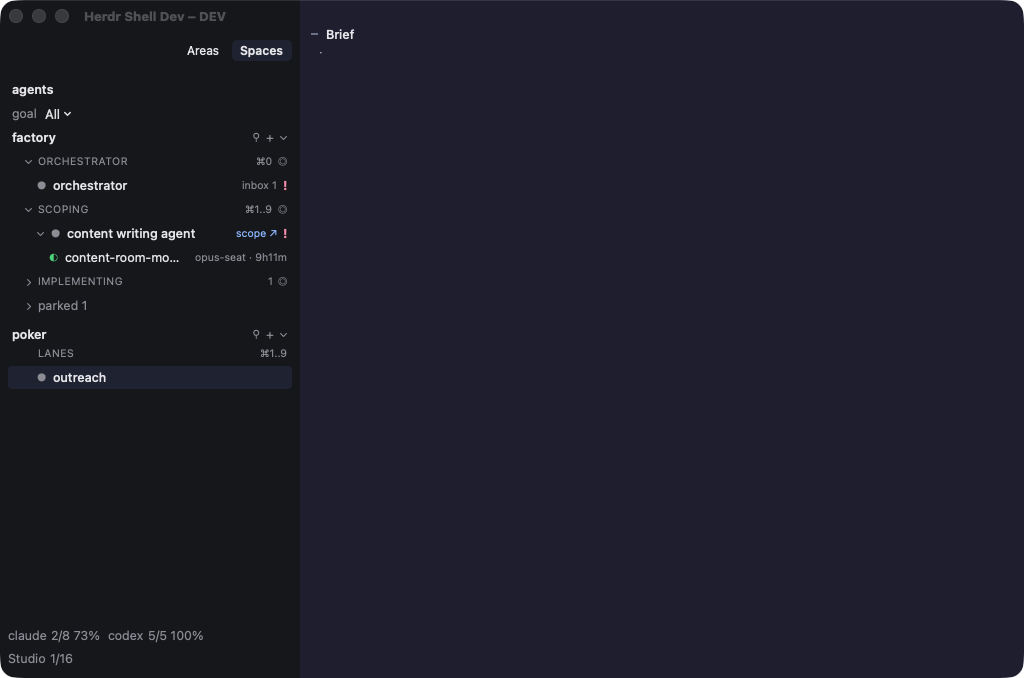
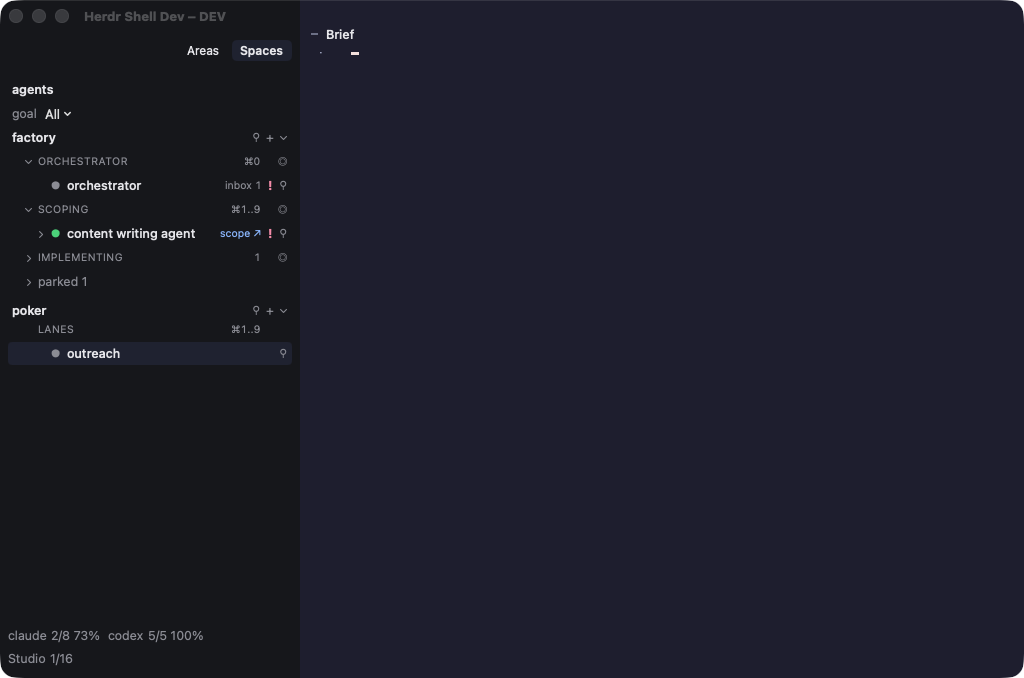
fix(shell): cmd-w closes the docs column, and docs open only on request
Cmd-W follows focus: when the docs column (RESUME, BRIEF, a page) has
keyboard focus or took the last click, it does what the column's close
button does and the pane keeps its tab. Docs visibility is now per tab and
off until Toggle Docs (cmd-\) opens it; Areas row clicks, cmd-1..9 and
Focus stepping no longer open it. The old window-wide docOpen key is no
longer read, so installs that had it on start closed.

Alex, 2026-10-06: "i pressed cmd w on the resume and brief, and it closed
this tab instead of that. by default, resume and brief never need to be
opened in my view."

Check: HERDR_SHELL_SPACE=1 python3 scripts/check_doc_close.py (fails on
the previous build: column open at start, cmd-w removes the pane).

diff --git a/macos/HerdrShell/Sources/HerdrShell/MainWindow.swift b/macos/HerdrShell/Sources/HerdrShell/MainWindow.swift
@@ -214,6 +214,7 @@ final class MainWindowController: NSObject, NSWindowDelegate {
         docPanel.onClose = { [weak self] in self?.setDocs(open: false) }
         docPanel.onWidth = { [weak self] w in self?.setDocs(width: w) }
         root.docs = docPanel.view
+        syncDocsShown()
         applyDocs()
         root.sidebarVisible = state.sidebarVisible
         Keymap.shared.addContextual(chord: "escape", action: "close_detail") { [weak self] in
@@ -419,9 +420,12 @@ final class MainWindowController: NSObject, NSWindowDelegate {
     }
 
     var forcedEmptyDocs = false
+    /// The last click landed in the docs column. ⌘W then closes the column even after a
+    /// doc tab click handed keyboard focus back to the pane.
+    var docsLastClicked = false
 
     func selectTab(_ tabId: String, revealDocs: Bool = false) {
-        if state.selectedTab != tabId { forcedEmptyDocs = false }
+        if state.selectedTab != tabId { forcedEmptyDocs = false; docsLastClicked = false }
         quickSwitch.noteSelected(tabId)
         noteLookedAt(tabId)
         let stepping = state.focusCursor != nil && revealDocs
@@ -429,7 +433,6 @@ final class MainWindowController: NSObject, NSWindowDelegate {
         if !stepping { state.focusCursor = nil }
         state.saveSelected()
         if revealDocs, state.mode == .areas {
-            setDocs(open: true)
             focusHerdr(tabId)
         }
         lastLayoutKey = ""
@@ -440,10 +443,28 @@ final class MainWindowController: NSObject, NSWindowDelegate {
 
     private func refreshDocs() {
         docPanel.show(model: model, tabId: state.selectedTab)
+        syncDocsShown()
         applyDocs()
     }
 
-    /// Areas-mode row click, ⌘1..9 and Focus next/prev: select the tab and open its docs.
+    /// Docs are shown per tab and only once asked for (⌘\ or Toggle Docs). The key is new:
+    /// the old window-wide `docOpen` kept RESUME and BRIEF open on every lane.
+    private static func docsShownKey(_ tab: String) -> String { "herdr.shell.docsShown.\(tab)" }
+
+    private func syncDocsShown() {
+        state.docOpen = state.selectedTab.map { SidebarState.store.bool(forKey: Self.docsShownKey($0)) } ?? false
+    }
+
+    /// ⌘W follows focus: with the docs column focused or last clicked it closes what ✕
+    /// closes, never the pane.
+    var docsOwnClose: Bool { root.docsOpen && (docPanel.hasFocus || docsLastClicked) }
+
+    func closeDocs() {
+        docsLastClicked = false
+        docPanel.closeActive()
+    }
+
+    /// Areas-mode row click, ⌘1..9 and Focus next/prev: select the tab. Docs stay as that tab left them.
     func selectAreaTab(_ tabId: String) {
         selectTab(tabId, revealDocs: true)
     }
@@ -466,7 +487,11 @@ final class MainWindowController: NSObject, NSWindowDelegate {
     }
 
     func setDocs(open: Bool? = nil, width: CGFloat? = nil) {
-        if let open { state.docOpen = open }
+        if let open {
+            state.docOpen = open
+            if let tab = state.selectedTab { SidebarState.store.set(open, forKey: Self.docsShownKey(tab)) }
+            if !open { docsLastClicked = false }
+        }
         if let width { state.docWidth = max(DocPanelController.minWidth, width) }
         state.saveDocs()
         applyDocs()
@@ -925,6 +950,9 @@ final class ShellWindow: NSWindow {
         // Swallow them here so a focused pane never sees switcher typing.
         if event.type == .keyDown, let c = delegate as? MainWindowController, c.quickSwitch.sink(event) {
             return
+        }
+        if event.type == .leftMouseDown, let c = delegate as? MainWindowController, let docs = c.root.docs {
+            c.docsLastClicked = c.root.docsOpen && docs.bounds.contains(docs.convert(event.locationInWindow, from: nil))
         }
         super.sendEvent(event)
     }

diff --git a/macos/HerdrShell/Sources/HerdrShell/Keymap.swift b/macos/HerdrShell/Sources/HerdrShell/Keymap.swift
@@ -201,7 +201,7 @@ extension MainWindowController {
         case "new_tab": newTab(nil)
         case "split_right": splitRight(nil)
         case "split_down": splitDown(nil)
-        case "close_pane": closePane()
+        case "close_pane": if docsOwnClose { closeDocs() } else { closePane() }
         case "zoom_pane": zoomPane()
         case "next_attention": nextAttention()
         case "attention_jump": attentionJump()

diff --git a/macos/HerdrShell/Sources/HerdrShell/DocPanel.swift b/macos/HerdrShell/Sources/HerdrShell/DocPanel.swift
@@ -324,6 +324,12 @@ final class DocPanelController: NSObject, WKNavigationDelegate {
         onClose?()
     }
 
+    /// ⌘W on the column: the ✕ action, then the pane gets the keys back.
+    func closeActive() {
+        closed()
+        returnFocus()
+    }
+
     @objc private func goBack() { web.goBack() }
     @objc private func goForward() { web.goForward() }
     @objc private func reloadPage() { web.reload() }

diff --git a/macos/HerdrShell/scripts/check_doc_close.py b/macos/HerdrShell/scripts/check_doc_close.py
@@ -1,0 +1,122 @@
+#!/usr/bin/env python3
+"""Docs column: closed until asked for, and ⌘W closes the column, not the tab.
+
+Run only in the Cua Space: HERDR_SHELL_SPACE=1 python3 scripts/check_doc_close.py.
+Alex, 2026-10-06: "i pressed cmd w on the resume and brief, and it closed this tab instead
+of that. by default, resume and brief never need to be opened in my view."
+
+The guest starts with the old window-wide `docOpen` left on, as Alex's install had it. A lane
+tab with RESUME.md and BRIEF.md opens with no column; ⌘\\ opens it; after a click on a doc tab
+(which hands keys back to the pane) ⌘W closes the column and the tab keeps its pane.
+"""
+import json
+import os
+import pathlib
+import time
+
+if os.environ.get("HERDR_SHELL_SPACE") != "1":
+    raise SystemExit("check_doc_close requires HERDR_SHELL_SPACE=1; host launch is forbidden")
+os.environ["SHELL_LAB"] = "shellspike-docw"
+os.environ.setdefault("HERDR_SHELL_BIN", os.path.expanduser("~/.local/bin/herdr"))
+ROOT = pathlib.Path(__file__).resolve().parents[1]
+LAB = pathlib.Path.home() / ".cache/herdr-build/shellspike-docw"
+LAB.mkdir(parents=True, exist_ok=True)
+os.environ["HERDR_LANES_PATH"] = str(LAB / "lanes.json")
+import scenario as S  # noqa: E402
+
+S.OUT = str(ROOT / "checks/doc-close.txt")
+lines = []
+failures = []
+
+
+def check(name, condition, detail=""):
+    line = f"[{'PASS' if condition else 'FAIL'}] {name}" + (f" -- {detail}" if detail else "")
+    print(line, flush=True)
+    lines.append(line)
+    if not condition:
+        failures.append(name)
+
+
+def api(*args):
+    return json.loads(S.lab("herdr", *args))["result"]
+
+
+def wait(predicate, timeout=20):
+    deadline = time.monotonic() + timeout
+    state = {}
+    while time.monotonic() < deadline:
+        state = S.state()
+        if predicate(state):
+            return state
+        time.sleep(0.2)
+    return state
+
+
+def shot(name):
+    S.cmd({"cmd": "shot", "out": str(ROOT / f"checks/doc-close-{name}.png")})
+
+
+def main():
+    S.app("stop")
+    S.lab("down")
+    S.lab("up")
+    domain = "herdr.shell.dev.shellspike-docw"
+    S.space("exec", f"defaults delete {domain} 2>/dev/null; defaults write {domain} herdr.shell.docOpen -bool true")
+    lane = "/Users/lume/.agent-rails/lanes/docs-close"
+    S.space("exec", f"rm -rf {lane} && mkdir -p {lane}"
+            f" && printf '# docs close RESUME\\n\\nstage: Ready for review\\n' > {lane}/RESUME.md"
+            f" && printf '# docs close BRIEF\\n\\nA short brief.\\n' > {lane}/BRIEF.md")
+    old = api("workspace", "list")["workspaces"]
+    created = api("workspace", "create", "--label", "docs", "--cwd", "/tmp", "--no-focus")
+    for workspace in old:
+        S.lab("herdr", "workspace", "close", workspace["workspace_id"])
+    tab = created["tab"]["tab_id"]
+    pane = created["root_pane"]["pane_id"]
+    # The lane name picks the project folder: ~/.agent-rails/lanes/docs-close in the guest.
+    lanes = {"version": 1, "lanes": [{"tab": tab, "name": "docs close", "label": "docs close", "kind": "lane",
+                                      "section": "implementing", "scope_url": None, "review_url": None}]}
+    pathlib.Path(os.environ["HERDR_LANES_PATH"]).write_text(json.dumps(lanes))
+    S.app("start")
+    S.cmd({"cmd": "frame", "w": 1440, "h": 900})
+    S.cmd({"cmd": "activate"})
+    S.cmd({"cmd": "select", "tab": tab})
+    state = wait(lambda s: s.get("selected_tab") == tab and s.get("docs", {}).get("tabs") == ["RESUME", "BRIEF"], 40)
+    check("the lane tab has RESUME and BRIEF", state.get("docs", {}).get("tabs") == ["RESUME", "BRIEF"],
+          f"tabs={state.get('docs', {}).get('tabs')}")
+    time.sleep(0.5)
+    state = S.state()
+    check("the tab opens with no docs column, though the old window-wide docOpen is on",
+          state.get("docs_visible") is False and state["shell"]["doc_open"] is False,
+          f"docs_visible={state.get('docs_visible')} doc_open={state['shell']['doc_open']}")
+    shot("closed")
+
+    S.key("\\", ["cmd"])
+    state = wait(lambda s: s.get("docs_visible") is True and "docs close RESUME" in (s["docs"].get("text") or ""), 10)
+    check("cmd+\\ opens the column on request", state.get("docs_visible") is True,
+          f"docs_visible={state.get('docs_visible')} text={(state.get('docs', {}).get('text') or '')[:80]!r}")
+    S.cmd({"cmd": "click", "target": "doc_tab", "label": "BRIEF"})
+    state = wait(lambda s: "docs close BRIEF" in (s["docs"].get("text") or ""), 10)
+    check("a click on the BRIEF tab shows BRIEF", state.get("docs", {}).get("active") == "BRIEF",
+          f"active={state.get('docs', {}).get('active')}")
+    shot("open")
+
+    S.key("w", ["cmd"])
+    state = wait(lambda s: s.get("docs_visible") is False, 5)
+    time.sleep(1.0)
+    panes = [p["pane_id"] for p in api("pane", "list")["panes"] if p.get("tab_id") == tab]
+    check("cmd+w after a click in the column closes the column",
+          state.get("docs_visible") is False and state["shell"]["doc_open"] is False,
+          f"docs_visible={state.get('docs_visible')} doc_open={state['shell']['doc_open']}")
+    check("cmd+w after a click in the column leaves the tab and its pane", panes == [pane], f"panes in tab={panes}")
+    shot("after-cmd-w")
+
+    S.app("stop")
+    S.lab("down")
+    pathlib.Path(S.OUT).parent.mkdir(exist_ok=True)
+    pathlib.Path(S.OUT).write_text("\n".join(lines) + "\n")
+    if failures:
+        raise SystemExit("FAIL: " + ", ".join(failures))
+
+
+if __name__ == "__main__":
+    main()

diff --git a/macos/HerdrShell/scripts/check_p16.py b/macos/HerdrShell/scripts/check_p16.py
@@ -4,9 +4,10 @@
   SHELL_LAB=shellspike-areas python3 scripts/check_p16.py [--out checks/P16.txt]
 
 A local page is the scope URL. RESUME.md and BRIEF.md live in the project folder
-the scope route names. Selecting the row shows Scope, RESUME, BRIEF. Typed text
-still reaches the focused pane. Editing RESUME.md shows up within 6s. ⌘\\ hides
-and shows the column, and the pane host width changes.
+the scope route names. Selecting the row leaves the column closed; ⌘\\ opens it
+with Scope, RESUME, BRIEF. Typed text still reaches the focused pane. Editing
+RESUME.md shows up within 6s. ⌘\\ hides and shows the column, and the pane host
+width changes.
 """
 import json
 import os
@@ -182,7 +183,14 @@ def run():
 
     time.sleep(0.4)
     click("row", "doc lane")
-    s = wait_state(lambda s: s.get("docs", {}).get("tabs") == ["Scope", "RESUME", "BRIEF"] and s["docs"].get("title") == "P16 Scope", 20)
+    s = wait_state(lambda s: s.get("selected_tab") == tab and s.get("docs", {}).get("tabs") == ["Scope", "RESUME", "BRIEF"], 20)
+    time.sleep(0.5)
+    s = S.state()
+    check("selecting the row leaves the docs column closed (Alex, 2026-10-06)",
+          s["shell"]["doc_open"] is False and s.get("docs_visible") is False,
+          f"doc_open={s['shell']['doc_open']} docs_visible={s.get('docs_visible')}")
+    S.key("\\", ["cmd"])
+    s = wait_state(lambda s: s.get("docs_visible") is True and s["docs"].get("title") == "P16 Scope", 20)
     docs = (s or {}).get("docs", {})
     say(f"docs after select: tabs={docs.get('tabs')} active={docs.get('active')} title={docs.get('title')!r} text={(docs.get('text') or '')[:180]!r}")
     check("selecting the row shows tabs Scope, RESUME, BRIEF",

diff --git a/macos/HerdrShell/scripts/check_p33.py b/macos/HerdrShell/scripts/check_p33.py
@@ -112,8 +112,10 @@ def main():
     S.app("start")
     state = wait(lambda s: ws + ":IMPLEMENTING" in s.get("spaces_chrome", {}).get("collapsedSections", []))
     check("fold survives relaunch", ws + ":IMPLEMENTING" in state.get("spaces_chrome", {}).get("collapsedSections", []))
-    S.cmd({"cmd": "docs", "open": True})
+    # Docs are shown per tab and only on request: open them on the tab that has them.
     S.cmd({"cmd": "select", "tab": tabs["scope"]})
+    wait(lambda s: s.get("selected_tab") == tabs["scope"])
+    S.cmd({"cmd": "docs", "open": True})
     state = wait(lambda s: s.get("docs_visible") is True)
     check("tab with docs shows column", state.get("docs_visible") is True)
     S.cmd({"cmd": "select", "tab": other})
